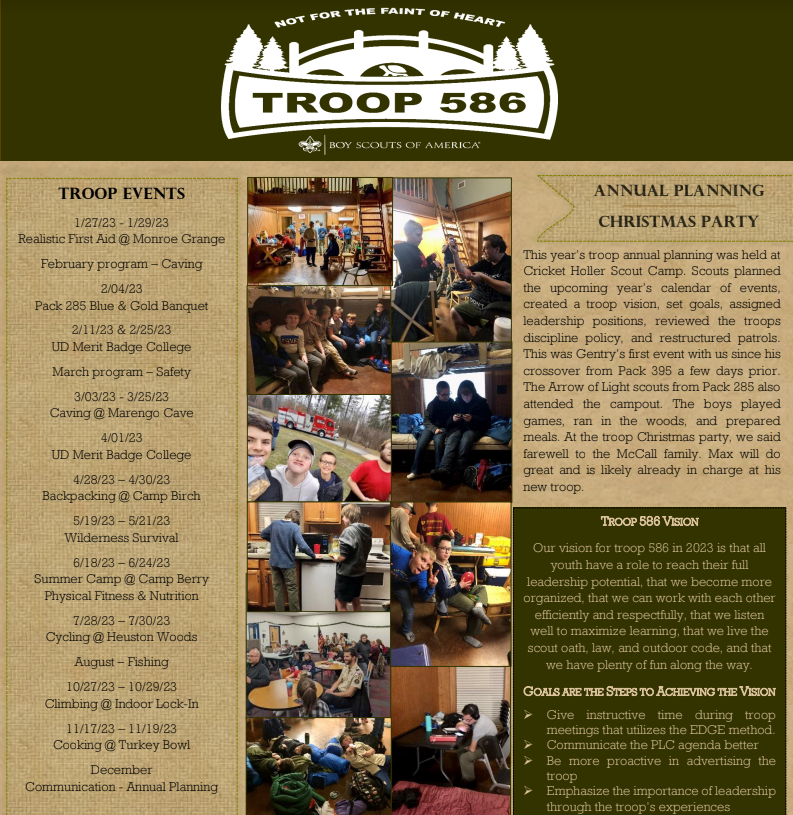
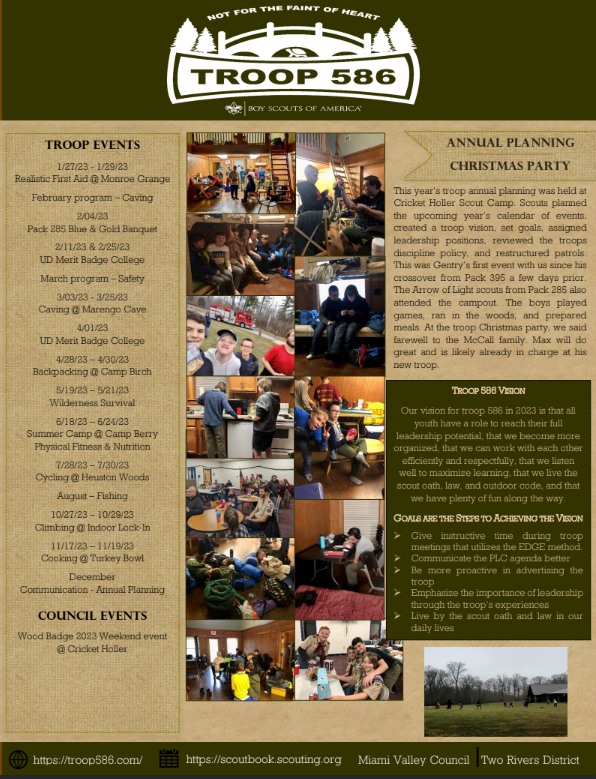
July newsletter and Patrol Method video link

diff --git a/newsletter.html b/newsletter.html
@@ -58,10 +58,18 @@
     </section>
     <section class="newsletter">
       <div class="news">
+        <h2>July 2023</h2>
+        <a href="https://drive.google.com/file/d/1nVcyFGlMGJ0K189gzQRtxT1MKDS4T8Lr/view?usp=sharing">
+          <div class="newsImg">
+            <img src="./assets/images/newsletter/news-july2023.PNG" alt="July 2023 Newsletter">
+          </div>
+        </a>
+      </div>
+      <div class="news">
         <h2>May/June 2023</h2>
         <a href="https://drive.google.com/file/d/1zetdlcSTJakpBbJ1r4HRe5McgKaDLFxr/view?usp=sharing">
           <div class="newsImg">
-            <img src="./assets/images/newsletter/news-may-june2023.PNG" alt="April 2023 Newsletter">
+            <img src="./assets/images/newsletter/news-may-june2023.PNG" alt="May/June 2023 Newsletter">
           </div>
         </a>
       </div>

diff --git a/resources.html b/resources.html
@@ -89,6 +89,15 @@
     <section class="container">
       <div class="resources">
         <div class="forms">
+          <a href="https://www.youtube.com/watch?v=J2W5B1JcLLI">
+            <img src="./assets/images/patrol_method.jpg" alt="Patrol Method video">
+          </a>
+        </div>
+      </div>
+    </section>
+    <section class="container">
+      <div class="resources">
+        <div class="forms">
           <a href="https://drive.google.com/file/d/1qZIEBQZW4dc4efW5Civk8ZF7PihGZAiY/view?usp=sharing">
             <img src="./assets/images/orientation.PNG" alt="new parent orientation video">
           </a>
